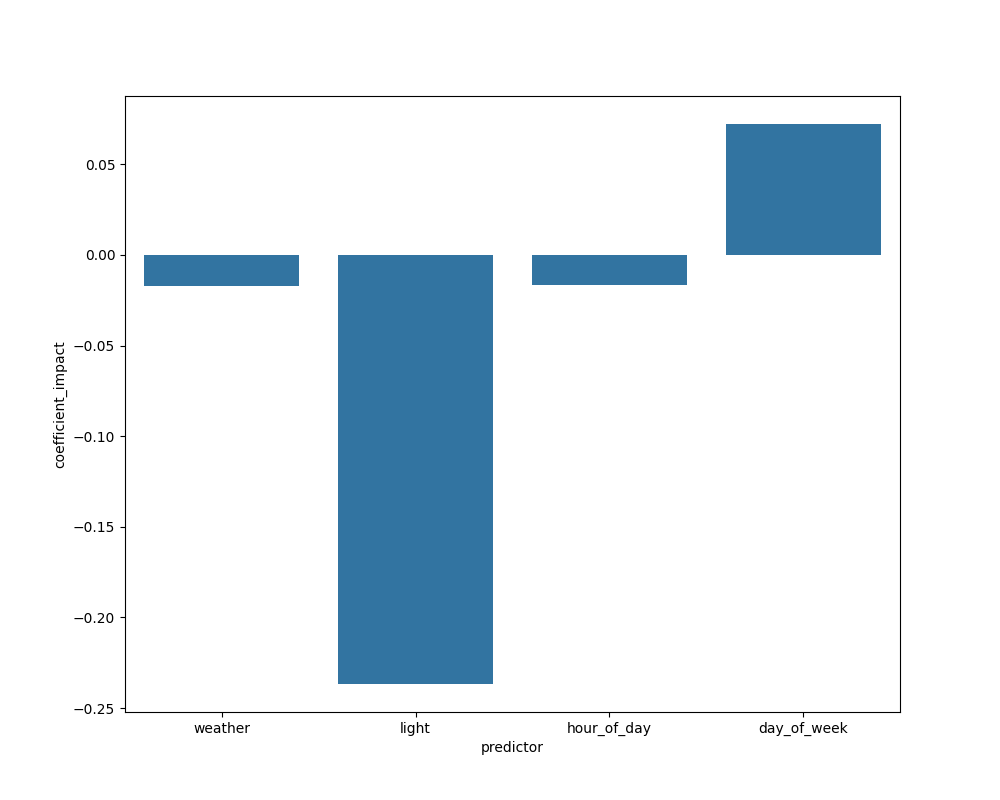
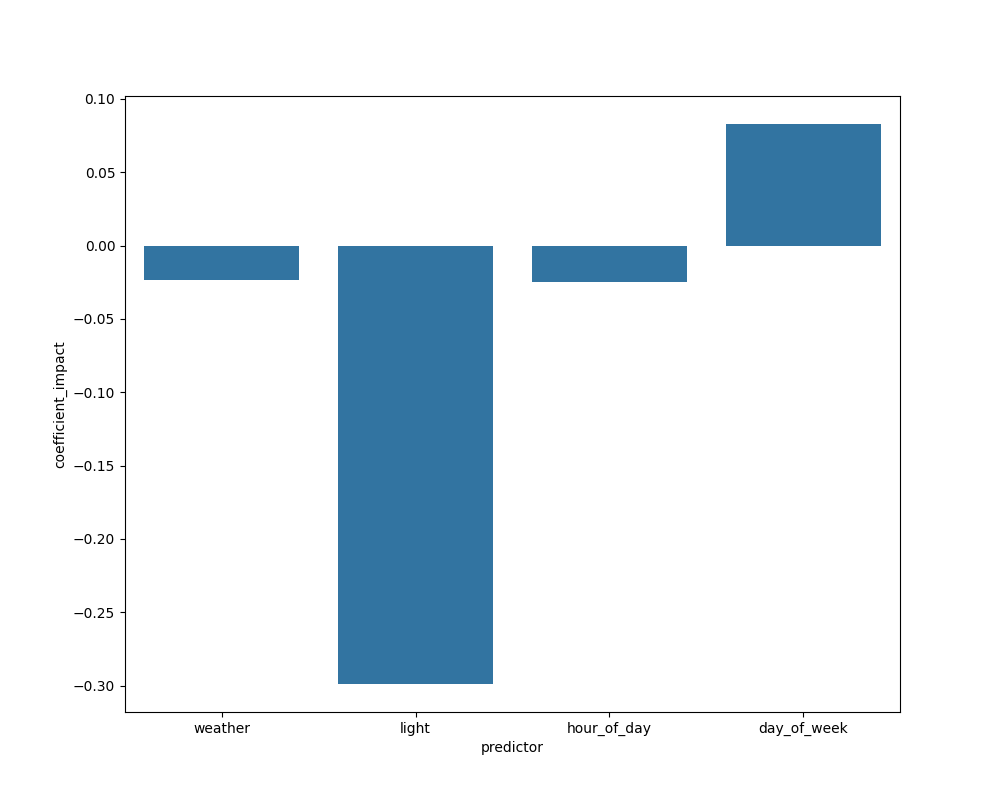
Added another model random froest and ade changes to main file along with running plots for random forest and adding docstrings for the files

diff --git a/analysis/model_1.py b/analysis/model_1.py
@@ -1,73 +1,63 @@
 import pandas as pd
 import os
-from sklearn.preprocessing import LabelEncoder
 from sklearn.model_selection import train_test_split
 from sklearn.linear_model import LogisticRegression
-from sklearn.metrics import accuracy_score
+from sklearn.metrics import accuracy_score, precision_score, recall_score
 
 os.makedirs("data/model_outputs",exist_ok=True)
+  
 
-def read_combined_df():
-    """Read the combined csv file and saves into new dataframe with model predictors
-
-    Returns:
-    crash_data_encode:
-        A filtered crash dataframe that will be used for preprocess
-    """    
-    combined_crash_data=pd.read_csv("data/transformed_loaded/Combined_Moco_Crash_Driver_Incident.csv")
-    crash_data_encode=combined_crash_data[["injury_severity", "weather", "light", "hour_of_day", "day_of_week"]]
-    return crash_data_encode
-
-
-
-def preprocess_crash_df(crash_data_encode):
-    """ 
-
-    Parameters:
-        crash_data_encode: dataframe
-        The encoded crash dataframe
-
-    Returns:
-        crash_data_encode:
-        A encoded crash dataframe of the model predictors that will then be used to train and test and split
-    """    
-    label_encoders={}
-    for column in ["injury_severity", "weather", "light", "hour_of_day", "day_of_week"]:
-        le=LabelEncoder()
-        crash_data_encode[column]=le.fit_transform(crash_data_encode[column])
-        label_encoders[column]= le
-    return crash_data_encode
-
-def train_test_split_df(crash_data_encode):
-    
+def train_test_split_LR_df():
+    """ Trains, tests and splits the loaded data to prepare for logistic regression classification model
+        Returns:
+            X_train_LR: 
+                dataframe for crash model training data 
+            X_test_LR: 
+                data frame for crash model testing data
+            y_train_LR: 
+                A series of the injury severity crash model target training data
+            y_test_LR: 
+                A series of the injury severity crash model target testing data
+    """
+    crash_data_encode=pd.read_csv("data/load/Combined_Moco_Crash_Data_Load.csv")
     crash_training=crash_data_encode.copy()
     X=crash_training.drop(columns="injury_severity")
     y=crash_training["injury_severity"]
-    X_train, X_test, y_train, y_test= train_test_split(X,y, test_size=0.2, random_state=42)
-    return X_train, X_test, y_train, y_test
+    X_train_LR, X_test_LR, y_train_LR, y_test_LR= train_test_split(X,y, test_size=0.2, random_state=42)
+    return X_train_LR, X_test_LR, y_train_LR, y_test_LR
 
-def classfication_model(X_train, X_test, y_train, y_test):
-    log_model=LogisticRegression()
-    log_model.fit(X_train, y_train)
-    fatal_injury_predictions=log_model.predict(X_test)
-    print("Accuracy:",accuracy_score(y_test, fatal_injury_predictions))
-    # I wanted to create a sid by side dataframe that compares the crash data I fed into the model and then what the results were
-    crash_data_results=pd.DataFrame({
-        "actual_crash_data":y_test,
-        "predicted_crash_data":fatal_injury_predictions
-    })
-    crash_data_results.to_csv("data/model_outputs/crash_model_prediction_results.csv")
-    #I wanted to creatr another dataframe to show how much a predictor like weather or light impacts fatal injury crahses
-    predictor_impact=pd.DataFrame({
-        "predictor":X_train.columns,
-        "coefficient_impact": log_model.coef_[0]
-    })
-    predictor_impact.to_csv("data/model_outputs/predictor_impact_results.csv")
-    
+def classfication_model_LR(X_train_LR, X_test_LR, y_train_LR, y_test_LR):
+    """ Creates the logistic regression classification model 
+        Parameters:
+            X_train_LR: dataframe
+                dataframe for crash model training data 
+            X_test_LR: dataframe
+                data frame for crash model testing data
+            y_train_LR: series
+                A series of the injury severity crash model target training data
+            y_test_LR: series
+                A series of the injury severity crash model target testing data
+    """
+    try:
+        log_model=LogisticRegression()
+        log_model.fit(X_train_LR, y_train_LR)
+        fatal_injury_predictions=log_model.predict(X_test_LR)
+        print("Accuracy:",accuracy_score(y_test_LR, fatal_injury_predictions))
+        print("Precision:", precision_score(y_test_LR, fatal_injury_predictions, average="weighted"))
+        print("Recall Score:", recall_score(y_test_LR, fatal_injury_predictions, average="weighted"))
+        # I wanted to create a sid by side dataframe that compares the crash data I fed into the model and then what the results were
+        crash_data_results=pd.DataFrame({
+            "actual_crash_data":y_test_LR,
+            "predicted_crash_data":fatal_injury_predictions
+        })
+        crash_data_results.to_csv("data/model_outputs/crash_model_prediction_results.csv")
+        #I wanted to creatr another dataframe to show how much a predictor like weather or light impacts fatal injury crahses
+        predictor_impact=pd.DataFrame({
+            "predictor":X_train_LR.columns,
+            "coefficient_impact": log_model.coef_[0]
+        })
+        predictor_impact.to_csv("data/model_outputs/predictor_impact_results.csv")
+    except:
+        print("An exception has occured")
 
-
-# crash_data=read_combined_df()
-# crash_data=preprocess_crash_df(crash_data)
-# X_train, X_test, y_train, y_test=train_test_split_df(crash_data)
-# classfication_model(X_train, X_test, y_train, y_test)
 

diff --git a/main.py b/main.py
@@ -1,29 +1,49 @@
 from etl.extract import extract_driver_data,extract_incident_data
-from etl.transform_load import read_crash_df, clean_crash_dfs, merge_crash_data, create_eda
-from analysis.model_1 import read_combined_df, preprocess_crash_df, train_test_split_df, classfication_model
-from vis.visualizations import read_model_outputs, static_viz
+from etl.transform import read_crash_df, clean_crash_dfs, merge_crash_data, create_eda
+from etl.load import read_combined_df, prepare_crash_df
+from analysis.model_1 import train_test_split_LR_df, classfication_model_LR
+from analysis.model_2 import train_test_split_RF_df, classfication_model_RF
+from vis.visualizations import read_model_outputs, static_viz_LR, static_viz_RF
+import logging
 
-
+logger=logging.getLogger(__name__)
 def main():
+    """
+    main calls functions from the extract, transform, load, model_1, model_2, and visualization files
+    """
+    logging.basicConfig(filename="final_SA_project.log", level=logging.INFO)
+    try:
+        logger.info("The start of the final project pipeline")
     # calling the raw extracted data from montgomery county gov website using apis
-    extract_driver_data()
-    extract_incident_data()
+        extract_driver_data()
+        extract_incident_data()
+        
+        #transforming the csv files for analysis
+        crash_driver_df, crash_incident_df=read_crash_df()
+        new_crash_driver_df, new_crash_incident_df= clean_crash_dfs(crash_driver_df, crash_incident_df)
+        crash_driver_incident=merge_crash_data(new_crash_driver_df, new_crash_incident_df)
+        create_eda(crash_driver_incident)
+        
+        # calling in the preprocessing and model for data to be loaded for analysis
+        crash_data=read_combined_df()
+        crash_data=prepare_crash_df(crash_data)
+        
+        # performing the logistic regression model
+        X_train_LR, X_test_LR, y_train_LR, y_test_LR= train_test_split_LR_df()
+        classfication_model_LR(X_train_LR, X_test_LR, y_train_LR, y_test_LR)
+        
+        #performing the random forest model
+        X_train_RF, X_test_RF, y_train_RF, y_test_RF=train_test_split_RF_df()
+        rand_forest_model=classfication_model_RF(X_train_RF, X_test_RF, y_train_RF, y_test_RF)
+        
+        #calling in the visualizations made from the results of Logistic Regresssion Model
+        crash_model_results, crash_predictor_results=read_model_outputs()
+        static_viz_LR(crash_model_results, crash_predictor_results)
+        static_viz_RF(rand_forest_model, X_train_RF.columns)
+        logger.info("The end of the final project pipeleine")
+    except:
+        print("An exception has occured")
     
-    #transforming the csv files for analysis
-    crash_driver_df, crash_incident_df=read_crash_df()
-    new_crash_driver_df, new_crash_incident_df= clean_crash_dfs(crash_driver_df, crash_incident_df)
-    crash_driver_incident=merge_crash_data(new_crash_driver_df, new_crash_incident_df)
-    create_eda(crash_driver_incident)
-    
-    # calling in the preprocessing and model for data
-    crash_data=read_combined_df()
-    crash_data=preprocess_crash_df(crash_data)
-    X_train, X_test, y_train, y_test=train_test_split_df(crash_data)
-    classfication_model(X_train, X_test, y_train, y_test)
-    
-    #calling in the visualizations made from the results of model
-    crash_model_results, crash_predictor_results=read_model_outputs()
-    static_viz(crash_model_results, crash_predictor_results)
     
 if __name__=="__main__":
     main()

diff --git a/analysis/model_2.py b/analysis/model_2.py
@@ -1,0 +1,54 @@
+import pandas as pd
+import os
+from sklearn.model_selection import train_test_split
+from sklearn.ensemble import RandomForestClassifier
+from sklearn.metrics import accuracy_score, precision_score, recall_score
+
+os.makedirs("data/model_outputs",exist_ok=True)
+  
+
+def train_test_split_RF_df():
+    """ Trains, tests and splits the loaded data to prepare for random forest classification model
+        Returns:
+            X_train_RF: 
+                dataframe for crash model training data 
+            X_test_RF: 
+                data frame for crash model testing data
+            y_train_RF: 
+                A series of the injury severity crash model target training data
+            y_test_RF: 
+                A series of the injury severity crash model target testing data
+    """
+    crash_data_encode=pd.read_csv("data/load/Combined_Moco_Crash_Data_Load.csv")
+    crash_training=crash_data_encode.copy()
+    X=crash_training.drop(columns="injury_severity")
+    y=crash_training["injury_severity"]
+    X_train_RF, X_test_RF, y_train_RF, y_test_RF= train_test_split(X,y, test_size=0.2, random_state=42)
+    return X_train_RF, X_test_RF, y_train_RF, y_test_RF
+
+def classfication_model_RF(X_train_RF, X_test_RF, y_train_RF, y_test_RF):
+    """ Creates the random forest classification model 
+        Parameters:
+            X_train_RF: dataframe
+                dataframe for crash model training data 
+            X_test_RF: dataframe
+                data frame for crash model testing data
+            y_train_RF: series
+                A series of the injury severity crash model target training data
+            y_test_RF: series
+                A series of the injury severity crash model target testing data
+        Returns:
+            rand_forest_model:
+                The random forest model
+            
+    """
+    try:
+        rand_forest_model=RandomForestClassifier()
+        rand_forest_model.fit(X_train_RF, y_train_RF)
+        fatal_crash_predictions=rand_forest_model.predict(X_test_RF)
+        print("Accuracy:",accuracy_score(y_test_RF, fatal_crash_predictions))
+        print("Precision:", precision_score(y_test_RF, fatal_crash_predictions, average="weighted"))
+        print("Recall Score:", recall_score(y_test_RF, fatal_crash_predictions, average="weighted"))
+        return rand_forest_model
+    except:
+        print("An exception has occured")